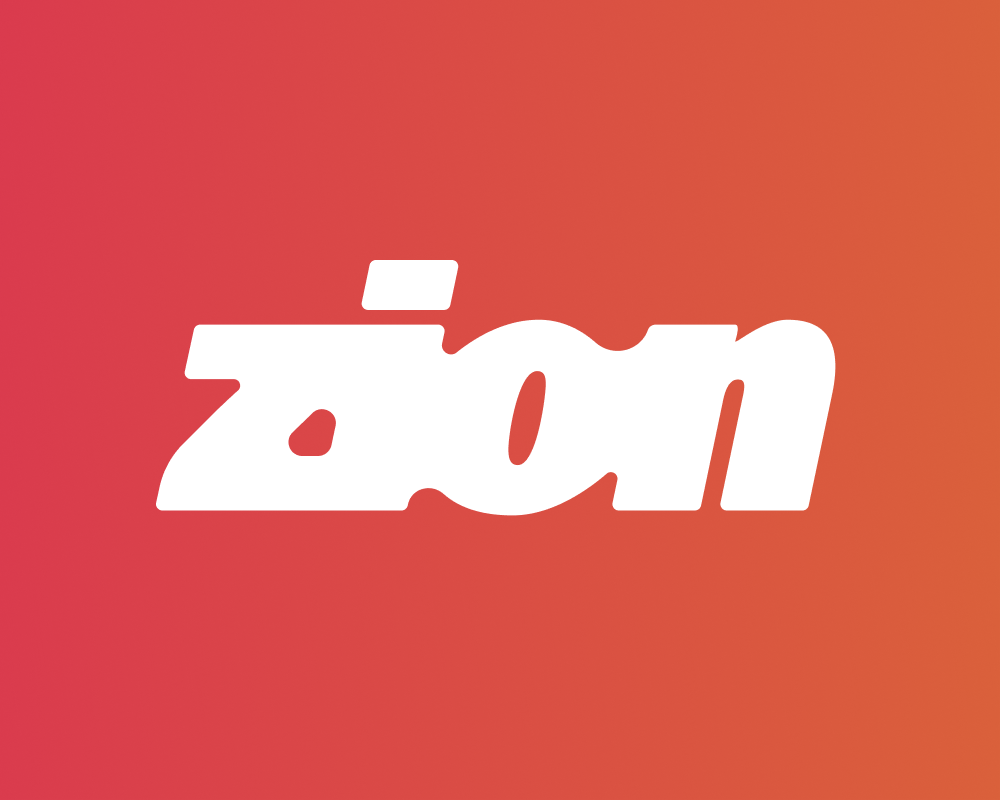
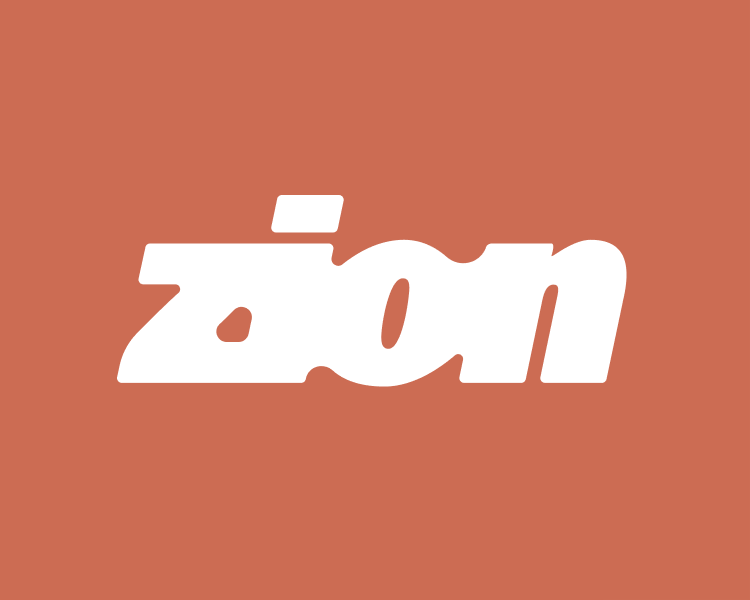
App - Update orange color (#344)

diff --git a/clients/web/app/src/ui/styles/palette.ts b/clients/web/app/src/ui/styles/palette.ts
@@ -21,7 +21,7 @@ export const Figma = {
   },
   Colors: {
     Purple: "#9F3AEF",
-    Orange: "#FA7052",
+    Orange: "#CC6C53",
     Blue: "#6B71F7",
     ENSBlue: "#18A0FB",
     Green: "#1FED8A",
